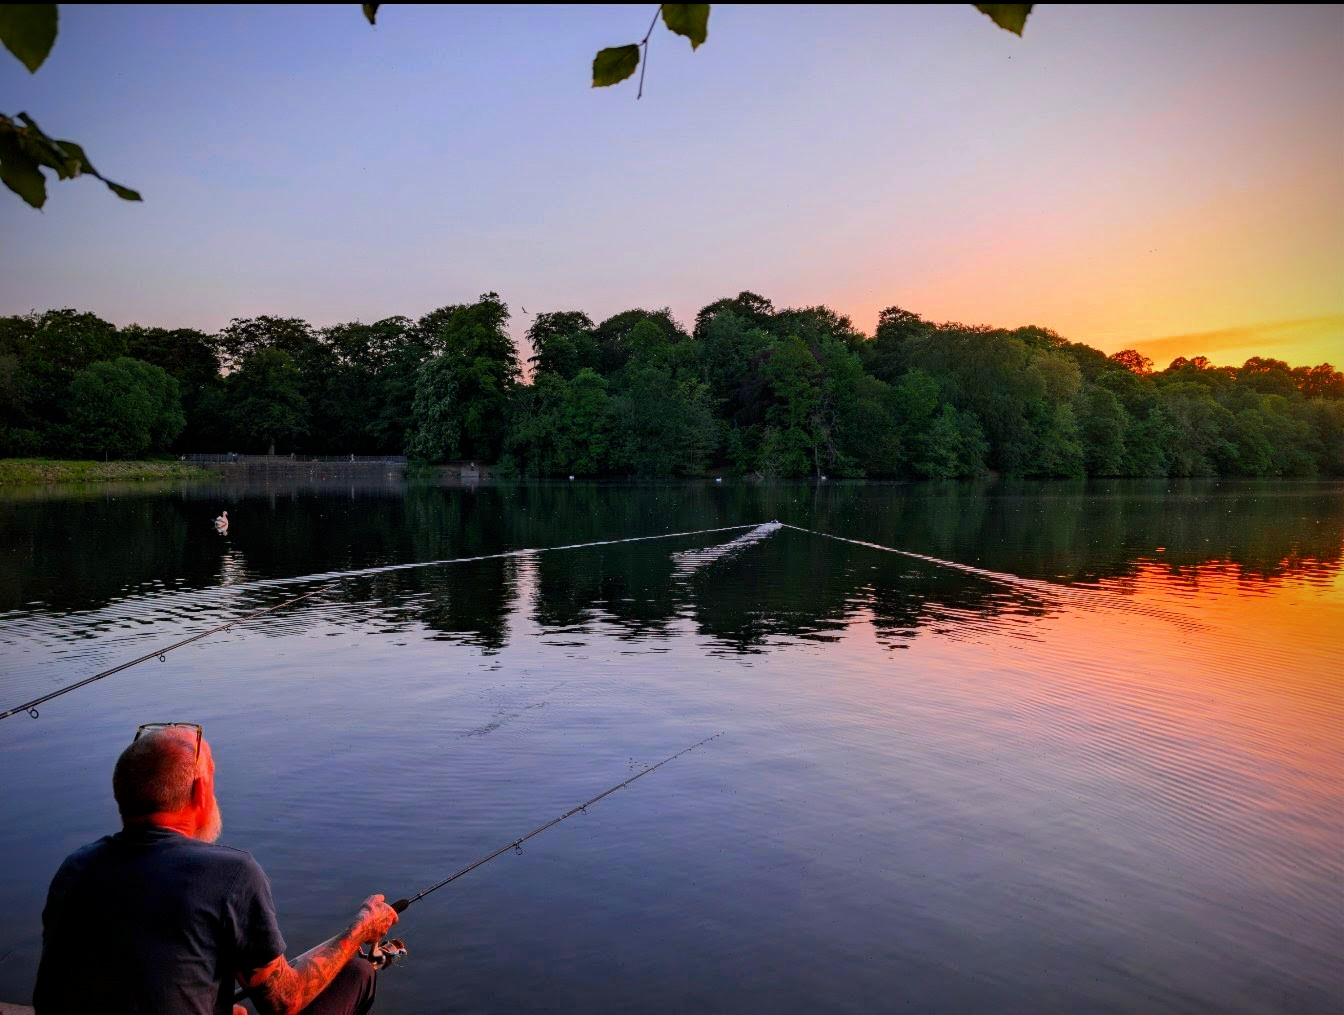
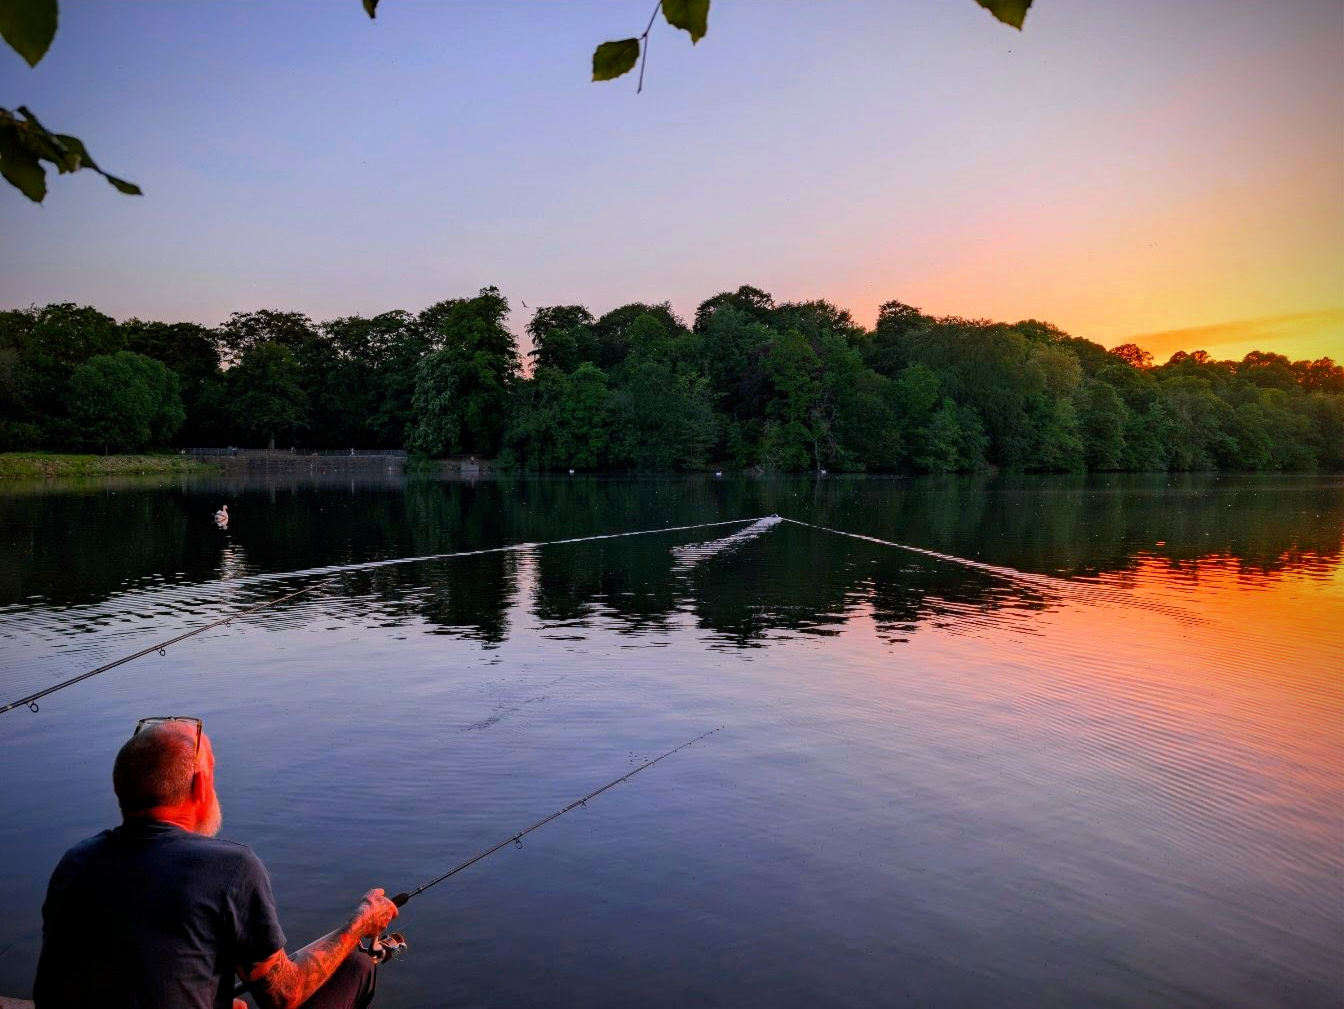
Article: Thoughts on modern relationships

diff --git a/index.html b/index.html
@@ -291,14 +291,14 @@ The common thread through all of it is a love of learning, building, and explori
 
   <div class="writing-grid">
     <article class="writing-card featured">
-      <div class="writing-tag">Blah blah blah blah blah blah blah blah blah blah</div>
-      <h3>Blah blah blah blah blah blah</h3>
-      <p>Blah blah blah blah blah blah blah blah blah blah blah blah blah blah blah blah blah blah blah blah blah blah blah blah blah blah blah blah blah blah blah blah blah.</p>
+      <div class="writing-tag">Field Notes: Something I Came Up With on The Train at 2 AM</div>
+      <h3>Thoughts On Modern Relationships</h3>
+      <p>I've been thinking a lot about relationships in a modern context. Social media has conditioned us to treat people as disposable — and the logic is seductive: why invest in someone when infinitely more people are just a scroll away?</p>
       <div class="writing-meta">
-        <span><i class="fas fa-calendar-alt"></i> [Date]</span>
+        <span><i class="fas fa-calendar-alt"></i>03/05/2026</span>
         <span><i class="fas fa-clock"></i> 5 min read</span>
       </div>
-      <a href="article-carbuild.html" class="writing-link">Read more →</a>
+      <a href="article-thoughts-modern-relationships.html" class="writing-link">Read more →</a>
     </article>
 
     <article class="writing-card">

diff --git a/portfolio.html b/portfolio.html
@@ -284,10 +284,12 @@
 <!-- Filter tabs — add/remove categories to match your photos below -->
 <div class="portfolio-filters">
   <button class="filter-btn active" data-filter="all">All</button>
-  <button class="filter-btn" data-filter="landscape">Landscape</button>
-  <button class="filter-btn" data-filter="urban">Urban</button>
+  <button class="filter-btn" data-filter="landscape">Landscapes</button>
+  <button class="filter-btn" data-filter="urban">Cityscapes</button>
   <button class="filter-btn" data-filter="travel">Travel</button>
   <button class="filter-btn" data-filter="cars">Cars</button>
+  <button class="filter-btn" data-filter="other">China</button>
+  <!-- Add more categories as needed -->
 </div>
 
 <!-- ═══════════════════════════════════════════════════

diff --git a/article-website.html b/article-website.html
@@ -119,7 +119,7 @@ for (let y = 0; y &lt; canvas.height; y += 4) {
   </div>
 
   <div class="article-footer-nav">
-    <a href="article-carbuild.html">← car build</a>
+    <a href="article-thoughts-modern-relationships.html">← thoughts on modern relationships</a>
     <a href="article-physics.html">next: physics project →</a>
   </div>
 </div>